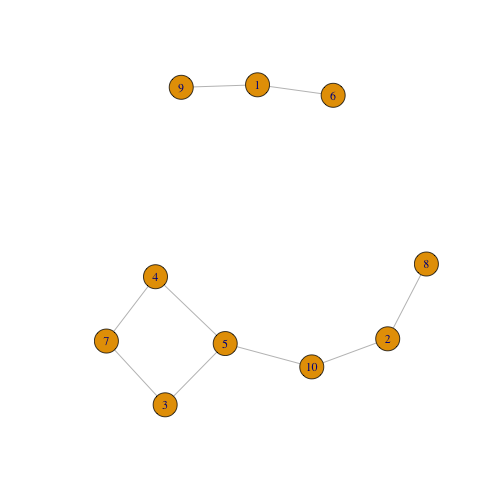
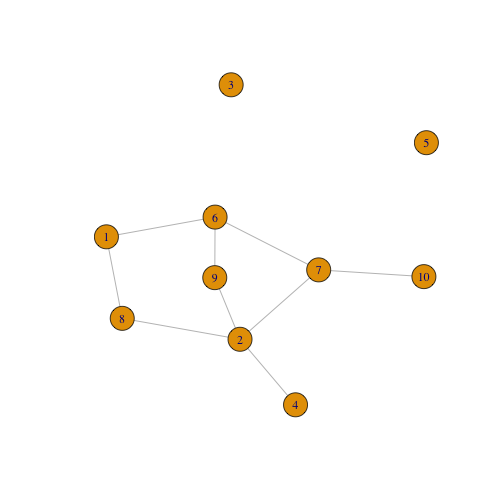
Yeah.

diff --git a/docs/classification-society-2021/index.html b/docs/classification-society-2021/index.html
@@ -73,16 +73,16 @@ as_adjacency_matrix(g)
 ```
 ## 10 x 10 sparse Matrix of class "dgCMatrix"
 ##                          
-##  [1,] . . . . . 1 . . 1 .
-##  [2,] . . . . . . . 1 . 1
-##  [3,] . . . . 1 . 1 . . .
-##  [4,] . . . . 1 . 1 . . .
-##  [5,] . . 1 1 . . . . . 1
-##  [6,] 1 . . . . . . . . .
-##  [7,] . . 1 1 . . . . . .
-##  [8,] . 1 . . . . . . . .
-##  [9,] 1 . . . . . . . . .
-## [10,] . 1 . . 1 . . . . .
+##  [1,] . . . . . 1 . 1 . .
+##  [2,] . . . 1 . . 1 1 1 .
+##  [3,] . . . . . . . . . .
+##  [4,] . 1 . . . . . . . .
+##  [5,] . . . . . . . . . .
+##  [6,] 1 . . . . . 1 . 1 .
+##  [7,] . 1 . . . 1 . . . 1
+##  [8,] 1 1 . . . . . . . .
+##  [9,] . 1 . . . 1 . . . .
+## [10,] . . . . . . 1 . . .
 ```
 
 ---
@@ -247,6 +247,7 @@ P \\
 ### For checking data try  [https://github.com/kaneplusplus/checkin](https://github.com/kaneplusplus/checkin)
 
 --
+&lt;br&gt;
 
 ## Thanks!
     </textarea>
